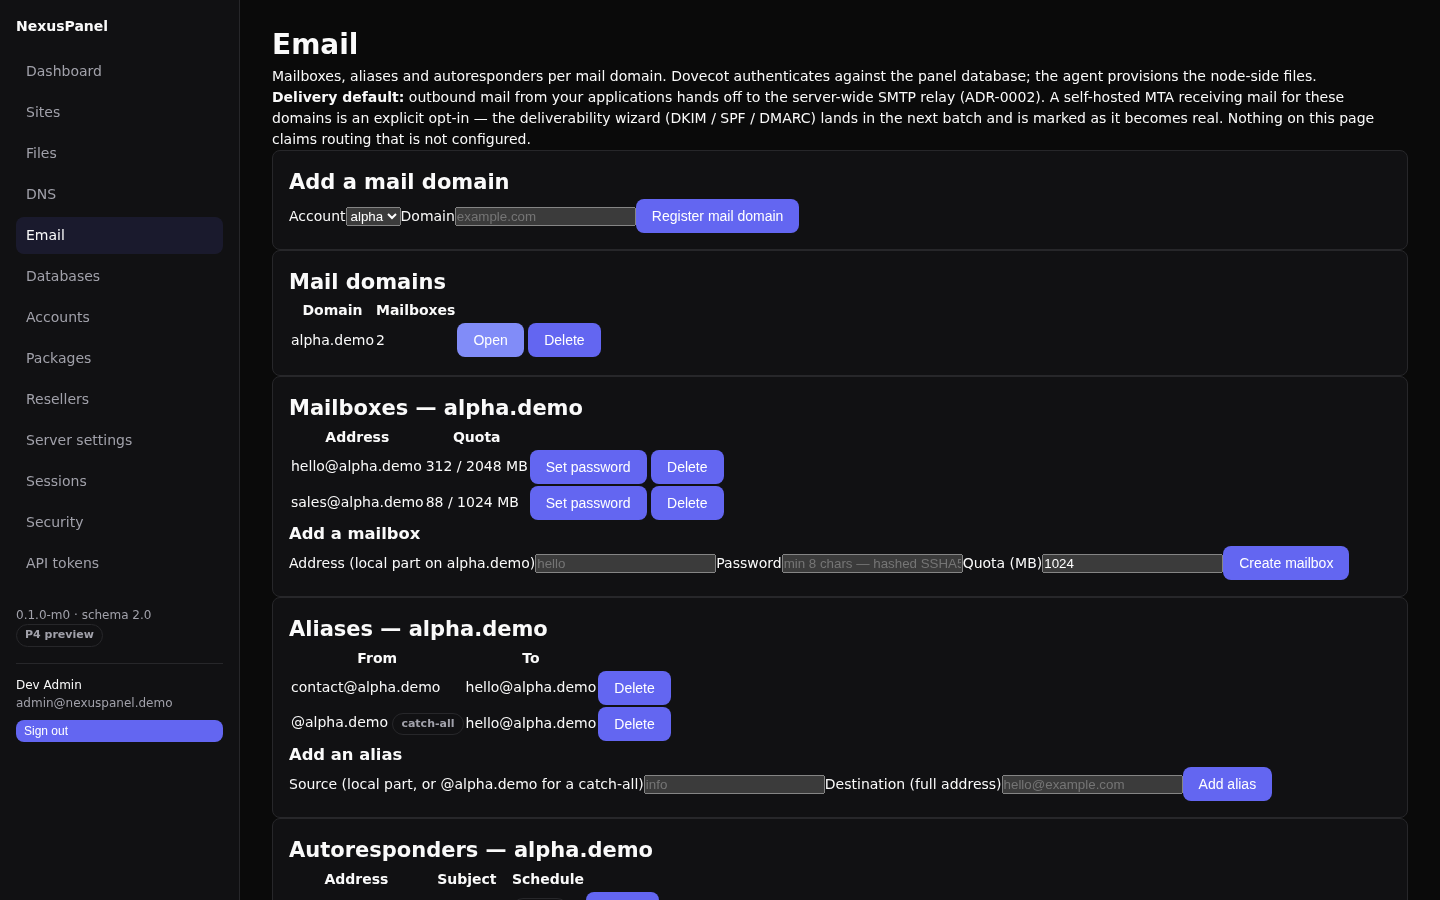
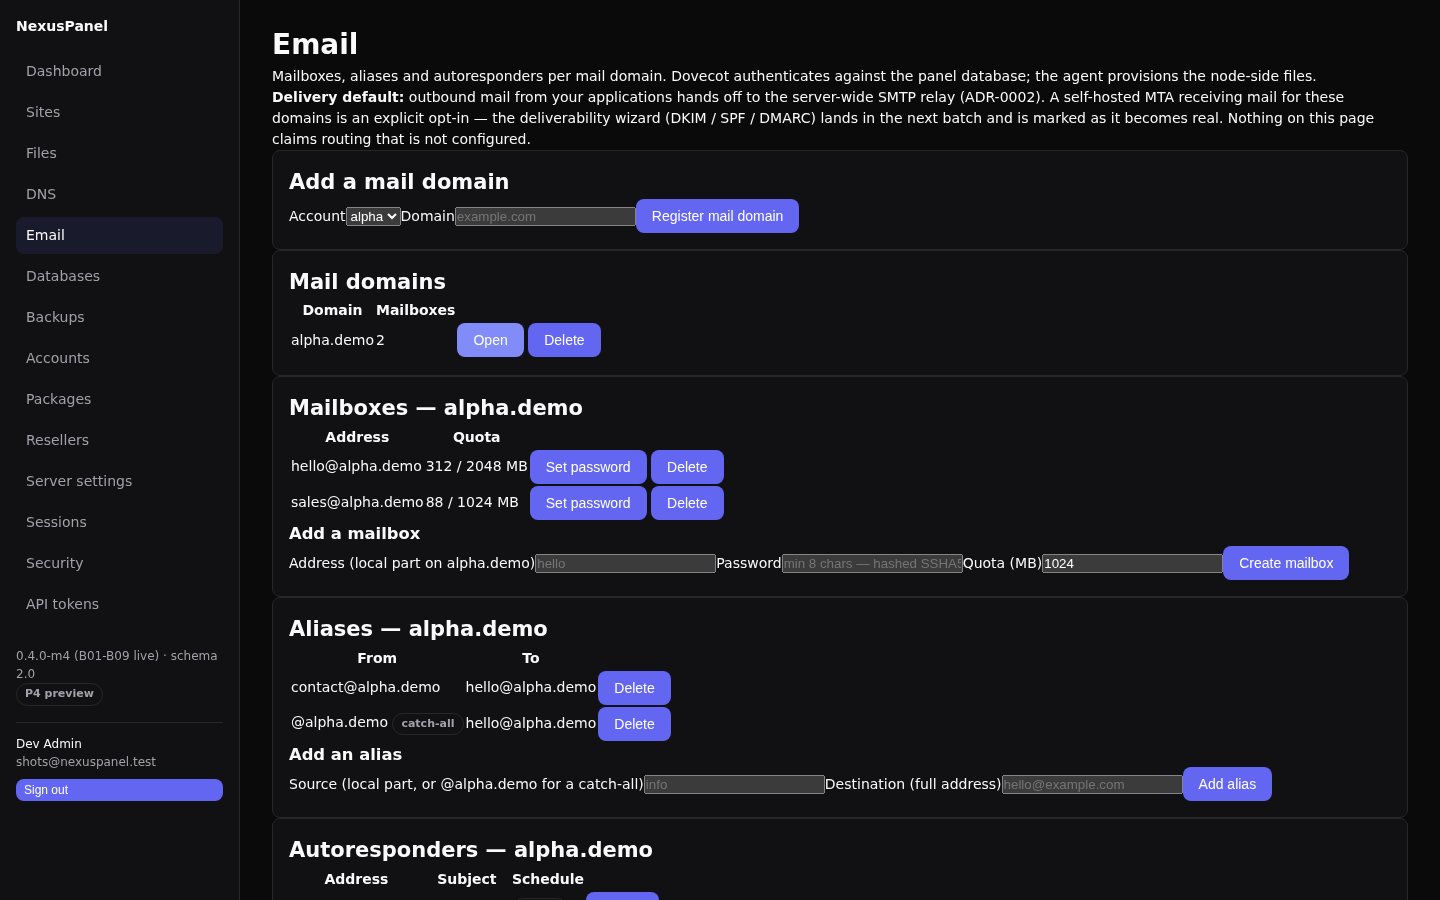
feat(e2e): screenshot rig + portal — backups chapter live, 20-shot p4 set with the run journal, index/navs refreshed (G-08, B10)

diff --git a/docs/portal/chapters/backups.html b/docs/portal/chapters/backups.html
@@ -3,52 +3,161 @@
 <head>
   <meta charset="utf-8">
   <meta name="viewport" content="width=device-width, initial-scale=1">
-  <title>Backups & restore · NexusPanel Docs</title>
+  <title>Backups &amp; restore · NexusPanel Docs</title>
   <link rel="stylesheet" href="../assets/style.css">
 </head>
 <body>
 <div class="portal">
   <aside>
     <div class="brand">NexusPanel Docs</div>
-    <div class="tag">v0.1.0-m0 · preview</div>
-    <div class="group">Start here</div>
-    <nav>
-      <a href="getting-started.html">Getting started</a>
-      <a href="first-account.html">Your first hosting account</a>
-    </nav>
+    <div class="tag">v0.4.0 · P4</div>
     <div class="group">Admin guide</div>
     <nav>
-      <a href="accounts.html">Accounts & packages</a>
-      <a href="audit.html">Audit log & chain</a>
+      <a href="accounts.html">Accounts &amp; packages</a>
+      <a href="sites.html">Sites &amp; domains</a>
+      <a href="files.html">Files, FTP &amp; SSH</a>
+      <a href="dns.html">DNS zones</a>
+      <a href="email.html">Email</a>
+      <a href="databases.html">Databases</a>
+      <a class="active" href="backups.html">Backups &amp; restore</a>
+      <a href="ssl.html">SSL certificates</a>
     </nav>
     <div class="back"><a href="../index.html">← Documentation home</a></div>
   </aside>
   <main>
-    <h1>Backups & restore</h1>
+    <h1>Backups &amp; restore</h1>
     <p class="lede">
-      This chapter opens with its build phase. The scope below is committed in
-      the master specification; nothing here is live in the M0 preview.
+      Every backup is an artifact: a gzipped tar of the account home, the site
+      subtree or a database dump, plus a JSON manifest carrying its checksum.
+      Artifacts can be encrypted with <strong>age</strong> before they leave
+      the node (security control C15) and can land on a local directory, an
+      S3-compatible bucket or an SFTP server. The restore flow always shows
+      you what is inside an artifact before it touches anything.
     </p>
 
-    <p><span class="badge">planned for P4</span></p>
+    <img class="screenshot" src="../static/screenshots/p4/19-backups.png"
+         alt="Backups panel: destinations, jobs with the honest schedule badge, and the run journal">
 
-    <h2>Planned scope</h2>
+    <h2>Destinations <span class="badge ok">live in the panel</span></h2>
+    <p>
+      Open <strong>Backups</strong> and add a destination: <em>local</em>
+      (a directory under the agent's backup root), <em>S3-compatible</em>
+      (any bucket speaking the S3 API — uploads run through
+      <code>rclone</code>), or <em>SFTP</em> (batch-mode OpenSSH client with
+      a pinned host key when you provide one). Press <strong>Test</strong>
+      to prove the destination with a real round trip (upload → download →
+      checksum → clean up) before pointing jobs at it.
+    </p>
+    <p>
+      The config you type — bucket keys, the SFTP private key — is stored as
+      an <strong>AES-256-GCM envelope</strong> (SecretBox, ADR-0009). The
+      panel never shows it back: it is decrypted only at the moment an agent
+      call needs it, and the audit trail carries a fingerprint, never the
+      material. Secrets ride to the node through the signed command channel
+      once and live in the child process environment or a 0600 temp key file
+      — never in argv, logs, or the agent's write-ahead log.
+    </p>
+
+    <h2>Encryption (C15) <span class="badge ok">age, master-key protected</span></h2>
     <ul>
-      <li>Destinations: local, S3-compatible, SFTP</li>
-      <li>Schedules with checksum + verify</li>
-      <li>Restore preview; age encryption (master-key protected)</li>
+      <li>Destination config accepts <strong>age recipients</strong> (public
+        keys). Any destination with recipients produces
+        <code>.tar.gz.age</code> artifacts — encrypted on the node, before
+        upload.</li>
+      <li>Decrypting requires the <strong>age identity file</strong> (the
+        master key) configured on the node performing the restore. It is a
+        node-local file — it never crosses the API or the command channel.</li>
+      <li>The negative path is part of the design: an encrypted artifact on
+        a node without its identity <strong>fails loudly</strong> — restore
+        and verify report a precondition error, they never silently skip
+        encryption. A wrong master key fails the same way.</li>
+      <li>A destination without recipients stores plaintext artifacts; runs
+        carried on it are flagged honestly in the UI and docs.</li>
     </ul>
 
-    <div class="callout">
-      Docs ship together with the feature (Definition of Done, BUILD_PLAN §1) —
-      when backups & restore goes live, this page gets full procedures and
-      regenerated screenshots in the same merge.
-    </div>
+    <h2>Jobs &amp; schedules <span class="badge ok">live</span> <span class="badge">schedules fire with B13</span></h2>
+    <p>
+      A job binds a <strong>scope</strong> to a destination: a whole account
+      home, a site subtree, a MariaDB database (the agent dumps it first,
+      ADR-0001 engines only in v1.0), or the agent's own managed server
+      config. Every job carries a retention policy —
+      <strong>grandfather-father-son</strong>: N daily, N weekly and N
+      monthly restore points survive outside the plain
+      <code>retention_days</code> window.
+    </p>
+    <p>
+      The cron schedule is stored and validated, but the engine that fires
+      schedules lands with the job framework (B13) — the badge on every job
+      says so, and <strong>Run now</strong> is the live path today. Stated,
+      not hidden.
+    </p>
 
-    <div class="pager">
-      <a href="../index.html">← Documentation home</a>
-      <a href="audit.html">Audit log &amp; chain →</a>
-    </div>
+    <h2>Runs: the honest journal <span class="badge ok">live</span></h2>
+    <p>
+      Every attempt becomes a run row before the agent is called, and it
+      tells the truth about what happened: <code>running</code> →
+      <code>success</code> or <code>failed</code> (with the agent's error
+      message verbatim). A successful run records the artifact name, its
+      size and the SHA-256 over the final (post-encryption) bytes.
+    </p>
+    <img class="screenshot" src="../static/screenshots/p4/20-backups-runs.png"
+         alt="Run journal: verified in green, success-not-verified-yet in amber, failed with the real error">
+    <p>
+      <strong>The verified badge is earned, never inferred.</strong> It
+      appears only after a real proof:
+    </p>
+    <ul>
+      <li><strong>Verify</strong> — re-hashes the artifact at the
+        destination against the recorded checksum and, for encrypted
+        artifacts, actually decrypts it with the node's master key. Bit-rot
+        and key loss both fail here.</li>
+      <li><strong>Test-restore</strong> (dry-run restore) — fetches,
+        decrypts, checksums and extracts the whole artifact into a scratch
+        area. Nothing is written back.</li>
+    </ul>
+    <p>
+      A plain successful backup shows amber
+      <em>success — not verified yet</em> until one of those proofs runs.
+    </p>
+
+    <h2>Restore &lt;- with preview <span class="badge ok">live</span></h2>
+    <p>
+      <strong>Preview</strong> lists the manifest and the sanitized entry
+      listing (first page) before anything is extracted — including whether
+      the checksum matches the manifest. Restore then behaves by scope:
+      account/site artifacts are extracted <em>inside the owning account's
+      home</em> (never over system paths — C13 confinement); a database
+      artifact's dump is additionally re-imported into the database through
+      the same confined path the dump tool uses. Restore refuses artifacts
+      whose bytes do not match their manifest checksum, and skips symlinks,
+      devices and path escapes with a count instead of following them.
+    </p>
+
+    <h2>Retention <span class="badge ok">live</span></h2>
+    <p>
+      After every successful run the panel applies the job's GFS policy over
+      its run registry: everything inside <code>retention_days</code> stays,
+      plus the newest N daily / N weekly (Mondays) / N monthly (1st)
+      restore points; the rest is purged at the destination. As a second
+      seatbelt, the agent protects any artifact whose own manifest claims a
+      newer date than the purge cutoff — the registry decides, the manifest
+      vetoes.
+    </p>
+
+    <h2>Not yet (honest list)</h2>
+    <ul>
+      <li>Schedule firing — the cron engine is the job framework (B13);
+        today schedules are stored and <em>Run now</em> is the live path.</li>
+      <li>Account-holder self-service restore ("my backups") — backups are
+        admin-managed in B10; the account-holder guide lands later.</li>
+      <li>SFTP purge — retention currently purges local and S3
+        (rclone) destinations; SFTP-destination purge is planned.</li>
+      <li>Age identity provisioning UX — the master key file is provisioned
+        by the installer today; a rotation flow follows the master-key
+        rotation runbook work.</li>
+      <li>Full-node bare-metal restore — v1.0 restores per-scope artifacts;
+        a whole-node rebuild path is future work.</li>
+    </ul>
   </main>
 </div>
 </body>

diff --git a/docs/portal/index.html b/docs/portal/index.html
@@ -58,7 +58,8 @@
         create hosting account → signed command → privileged Go agent →
         hash-chained audit → live usage in the UI</strong>, then sites &amp;
         domains, files/FTP/SSH, SSL (ACME http-01), per-site PHP, the config
-        engine, DNS zones, email (with deliverability), and databases. Chapters for later phases are
+        engine, DNS zones, email (with deliverability), databases, and
+        encrypted backups &amp; restore. Chapters for later phases are
         stubbed with their planned scope so the information architecture is
         reviewable now.
       </p>
@@ -87,22 +88,24 @@
       <tr><td>Email — mailboxes, aliases, autoresponders (Dovecot SQL userdb, ADR-0013)</td><td><a href="chapters/email.html">Email</a></td><td><span class="badge ok">live</span></td></tr>
       <tr><td>Deliverability — DKIM/SPF/DMARC one-pass + mail queue tools (ADR-0014)</td><td><a href="chapters/email.html">Email</a></td><td><span class="badge ok">live</span> <span class="badge">relay stored — not yet routing</span></td></tr>
       <tr><td>Databases — MariaDB 11, least-privilege grants, encrypted credentials (ADR-0015)</td><td><a href="chapters/databases.html">Databases</a></td><td><span class="badge ok">live</span> <span class="badge">SSO consumer at B14</span></td></tr>
-      <tr><td>Backups &amp; restore</td><td>chapters</td><td><span class="badge">P4 next (B10)</span></td></tr>
+      <tr><td>Backups &amp; restore — encrypted artifacts (age C15), GFS retention, restore-with-preview, proof-earned verified badges (ADR-0016)</td><td><a href="chapters/backups.html">Backups &amp; restore</a></td><td><span class="badge ok">live</span> <span class="badge">schedules fire at B13</span></td></tr>
     </table>
 
     <h2>Screenshots (P4 set, auto-generated)</h2>
     <p>
       Regenerated by the Playwright rig on every UI-affecting merge —
       <code>e2e/screenshots.mjs</code> →
-      <code>docs/portal/static/screenshots/p4/</code> (18 shots: login through
-      sessions, including the DNS zone editor, the email deliverability view
-      and the databases detail).
+      <code>docs/portal/static/screenshots/p4/</code> (20 shots: login through
+      sessions, including the DNS zone editor, the email deliverability view,
+      the databases detail and the backups panel with its run journal).
     </p>
     <img class="screenshot" src="static/screenshots/p4/01-login.png" alt="NexusPanel login screen">
     <img class="screenshot" src="static/screenshots/p4/03-dashboard.png" alt="Dashboard with live usage">
     <img class="screenshot" src="static/screenshots/p4/07-dns-zone-editor.png" alt="DNS zone editor with live DNSSEC card">
     <img class="screenshot" src="static/screenshots/p4/09-email-domain.png" alt="Email panel with mailboxes, aliases and deliverability">
     <img class="screenshot" src="static/screenshots/p4/11-databases-detail.png" alt="Databases panel with grants and credential tools">
+    <img class="screenshot" src="static/screenshots/p4/19-backups.png" alt="Backups panel with destinations and the honest-notes banner">
+    <img class="screenshot" src="static/screenshots/p4/20-backups-runs.png" alt="Backup jobs and the run journal with proof-earned verified badges">
 
     <footer>
       NexusPanel user documentation · built from the master specification ·

diff --git a/docs/portal/chapters/databases.html b/docs/portal/chapters/databases.html
@@ -19,6 +19,7 @@
       <a href="dns.html">DNS zones</a>
       <a href="email.html">Email</a>
       <a class="active" href="databases.html">Databases</a>
+      <a href="backups.html">Backups &amp; restore</a>
       <a href="ssl.html">SSL certificates</a>
     </nav>
     <div class="back"><a href="../index.html">← Documentation home</a></div>
@@ -97,8 +98,10 @@
     <h2>Not yet (honest list)</h2>
     <ul>
       <li>MySQL 8 / PostgreSQL engines — v1.2 behind the adapter seam (ADR-0001).</li>
-      <li>Scheduled dumps — arrive with the backup framework (B10); today's
-        dump is an on-demand operator tool.</li>
+      <li>One-click "back up this database now" lives in the Backups panel
+        (B10): create a database-scoped job and press Run now; the agent
+        dumps MariaDB and ships the encrypted artifact. The dump button here
+        stays an on-demand operator tool.</li>
       <li>phpMyAdmin/Adminer consumer for the SSO token — B14 app installer.</li>
       <li>Over-quota enforcement responses — B13 job framework.</li>
     </ul>

diff --git a/docs/portal/chapters/ssl.html b/docs/portal/chapters/ssl.html
@@ -16,6 +16,10 @@
       <a href="accounts.html">Accounts &amp; packages</a>
       <a href="sites.html">Sites &amp; domains</a>
       <a href="files.html">Files &amp; trash</a>
+      <a href="dns.html">DNS zones</a>
+      <a href="email.html">Email</a>
+      <a href="databases.html">Databases</a>
+      <a href="backups.html">Backups &amp; restore</a>
       <a class="active" href="ssl.html">SSL certificates</a>
     </nav>
     <div class="back"><a href="../index.html">← Documentation home</a></div>

diff --git a/docs/portal/chapters/email.html b/docs/portal/chapters/email.html
@@ -19,6 +19,7 @@
       <a href="dns.html">DNS zones</a>
       <a class="active" href="email.html">Email</a>
       <a href="databases.html">Databases</a>
+      <a href="backups.html">Backups &amp; restore</a>
       <a href="ssl.html">SSL certificates</a>
     </nav>
     <div class="back"><a href="../index.html">← Documentation home</a></div>

diff --git a/docs/portal/chapters/dns.html b/docs/portal/chapters/dns.html
@@ -19,6 +19,7 @@
       <a href="dns.html">DNS zones</a>
       <a href="email.html">Email</a>
       <a href="databases.html">Databases</a>
+      <a href="backups.html">Backups &amp; restore</a>
       <a href="ssl.html">SSL certificates</a>
     </nav>
     <div class="back"><a href="../index.html">← Documentation home</a></div>

diff --git a/specs/nexuspanel-api-design-v2.0.md b/specs/nexuspanel-api-design-v2.0.md
@@ -471,6 +471,13 @@ The full endpoint catalog is large. Below is the **complete catalog** with metho
 | POST | `/backups/destinations` | jwt | `backup:create` |
 | DELETE | `/backups/destinations/{id}` | jwt | `backup:delete` |
 | POST | `/backups/destinations/{id}/test` | jwt | `backup:create` |
+| POST | `/backups/jobs/{id}/retention` | jwt | `backup:update` |
+
+Implementation increment (B10): `POST /backups/jobs/{id}/retention` runs the
+job's GFS retention pass on demand — the same pass that runs automatically
+after each successful backup. Destination configs are SecretBox envelopes:
+no route returns config material, and every test/restore/verify is audited
+with a fingerprint (ADR-0009/0015 discipline).
 
 ### 4.17 Applications — `/api/v1/apps`
 
